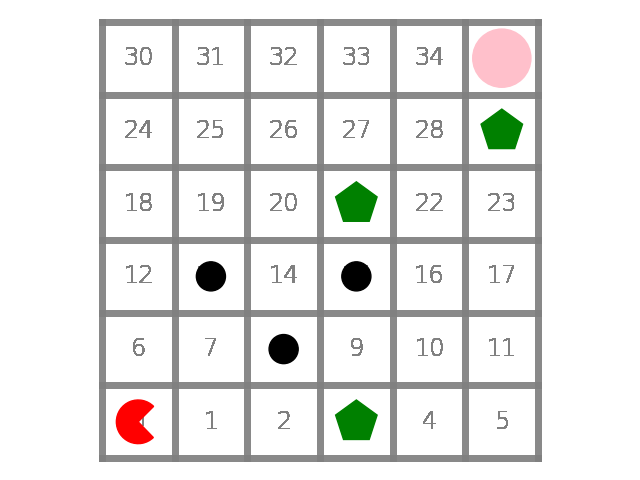
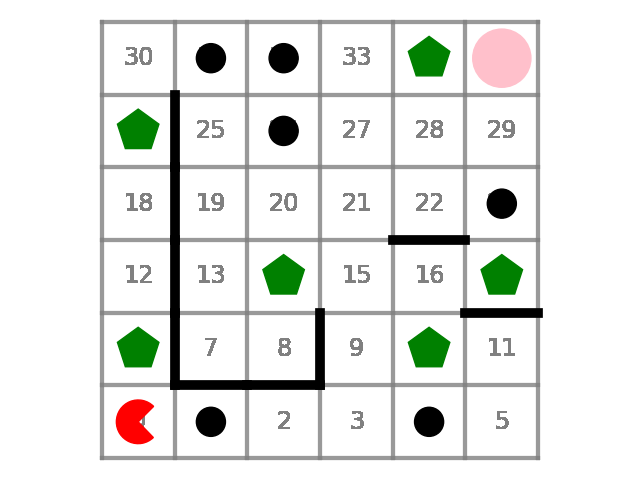
Finished.

diff --git a/main.py b/main.py
@@ -12,38 +12,52 @@ from collections import defaultdict
 N = 6
 
 
-class Wall(list,mlines.Line2D):
-    def __init__(self, a, b, N = N):
-        list.__init__(self, (a, b))
-        ra,ca = Map.derive_rc(a)
-        rb,cb = Map.derive_rc(b)
+class Wall(mlines.Line2D, tuple):
+    def __new__(tuple,a,b,N=N):
+        return super(Wall,tuple).__new__(tuple,(a,b))
+
+    def __init__(self, a, b, N=N):
+        self.N = N
+        # tuple.__init__(self, (a, b))
+        ra, ca = self.derive_rc(a)
+        rb, cb = self.derive_rc(b)
         try:
-            assert ra == rb or ca == cb 
+            assert ra == rb or ca == cb
             assert ra != rb or ca != cb
         except AssertionError:
             sys.stderr.write("Not valid wall. Error.")
             sys.exit()
-        if ra == rb:  # vertical
-            if ca > cb :
-                ca,cb = cb,ca
-                y1 = ra - 0.5
-                y2 = ra + 0.5
-                x1 = ca + 0.5
-                x2 = ca + 0.5
-        elif ca == cb: # horizonal 
-            if ra > rb :
-                ra,rb = rb,ra
-                x1 = ca - 0.5
-                x2 = ca + 0.5
-                y1 = ra + 0.5
-                y2 = ra + 0.5
-        mlines.Line2D.__init__( (x1,y1),(x2,y2),lw = 5 
-        def draw_lines(self, lines, ax, color="grey", lw=5, alpha=0.3, gid=None):
-            for l in lines:
-                x = l[0:2]
-                y = l[2:4]
-                line = mlines.Line2D(x, y, lw=lw, alpha=alpha, color=color, gid=gid)
-        
+        x1 = 0
+        x2 = 0
+        y1 = 0
+        y2 = 0
+        # print(ra,rb,ca,cb)
+        if ra == rb:  # horizonal
+            # print(True)
+            if ca > cb:
+                ca, cb = cb, ca
+            y1 = ca + 0.5
+            y2 = ca + 0.5
+            x1 = ra - 0.5
+            x2 = ra + 0.5
+        elif ca == cb:  # vertical
+            if ra > rb:
+                ra, rb = rb, ra
+            x1 = ra + 0.5
+            x2 = ra + 0.5
+            y1 = ca - 0.5
+            y2 = ca + 0.5
+        # print(x1,y1,x2,y2)
+        mlines.Line2D.__init__(
+            self, (x1, x2), (y1, y2), lw=7, alpha=1.0, color="black", gid=None
+        )
+
+    def derive_rc(self, n):
+        return (n % self.N, n // self.N)
+
+    def derive_n(self, a):
+        c, r = a
+        return r * self.N + c
 
 
 class Walls(list):
@@ -53,6 +67,7 @@ class Walls(list):
             for line in open(income):
                 a = int(line.split()[0])
                 b = int(line.split()[1])
+                tmp2 = Wall(a, b)
                 tmp.append(Wall(a, b))
         else:
             for (a, b) in income:
@@ -162,6 +177,7 @@ class Map:
     def set_up_walls(self, ws):
         for w in ws:
             self.delEdge(w[0], w[1])
+        self.walls = ws
 
     def generate_condition(self, nsample=None):
         if nsample == None:
@@ -200,6 +216,8 @@ class Map:
             ax.add_patch(target)
         ax.add_patch(self.walker)
         ax.add_patch(self.goal)
+        for w in self.walls:
+            ax.add_line(w)
 
         plt.axis("equal")
         plt.axis("off")
@@ -216,7 +234,7 @@ class Map:
                 l.append([x - 0.5 for x in (0, N, i, i)])
         return l
 
-    def draw_lines(self, lines, ax, color="grey", lw=5, alpha=0.3, gid=None):
+    def draw_lines(self, lines, ax, color="grey", lw=3, alpha=0.2, gid=None):
         for l in lines:
             x = l[0:2]
             y = l[2:4]
@@ -298,7 +316,8 @@ def test():
 
 
 a = Map()
-a.generate_condition(nsample=3)
+a.set_up_walls(Walls("walls"))
+a.generate_condition(nsample=6)
 a.make_distance_matrix()
 a.find_solution()
 print(a.best_path)
